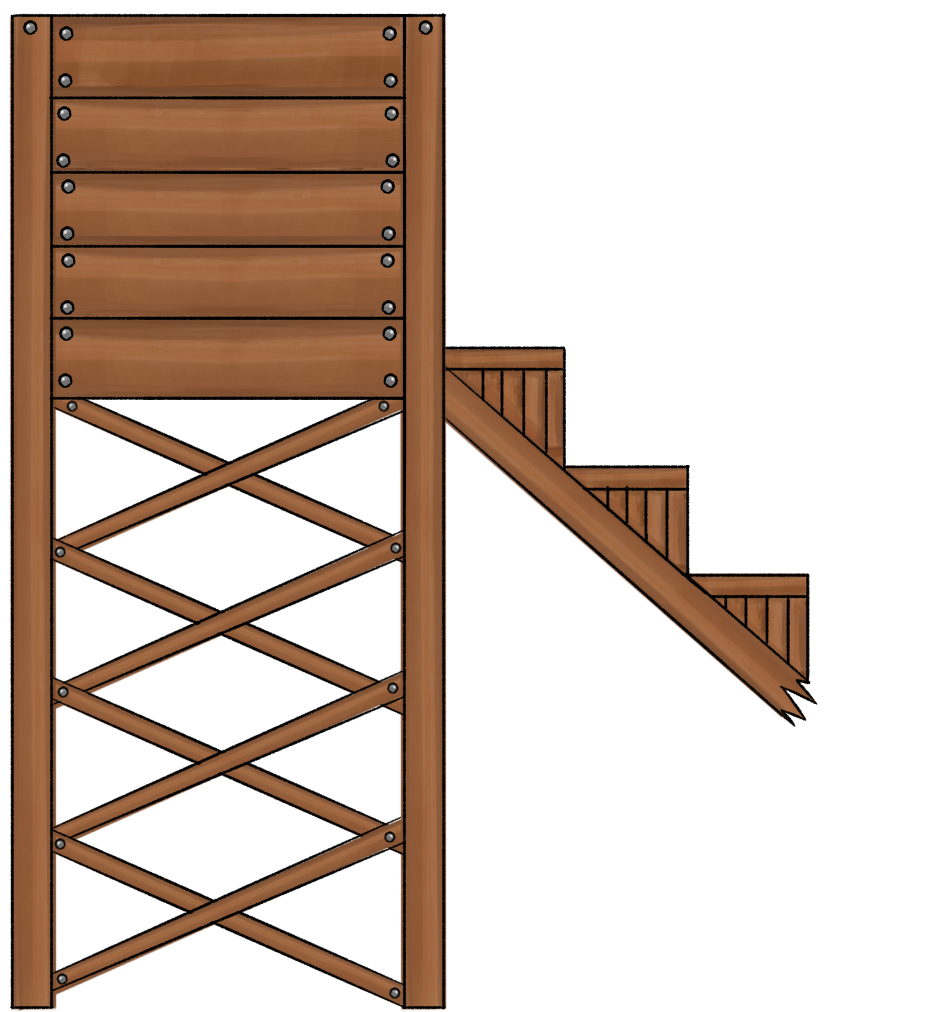
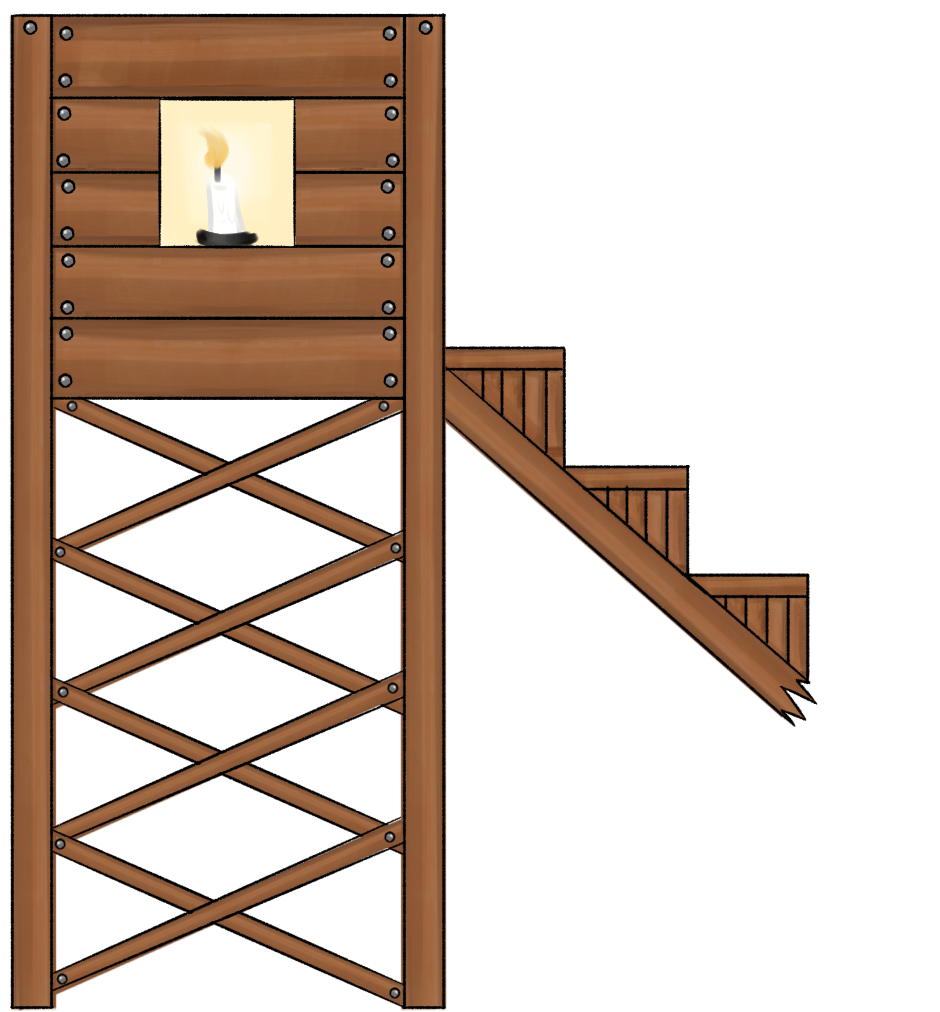
Extra: Update House

Changed region(s): [[0.1543, 0.0919, 0.3394, 0.2451]]

diff --git a/src/prefabs/Player.js b/src/prefabs/Player.js
@@ -43,29 +43,6 @@ class Player extends PhysicsObject {
 		// Round the position to avoid subpixel movement causing jitter
 		this.setPosition(Math.round(this.x), Math.round(this.y))		
 		
-		/*
-		let direction = new Phaser.Math.Vector2(0);
-		
-        if (this.scene.upKey.isDown && this.body.blocked.down) {
-            this.setVelocityY(this.jumpHeight);
-        }
-
-        this.setVelocityX(this.VEL * direction.x);
-
-		if (this.scene.leftKey.isDown) {
-			this.setVelocityX(-this.VEL)  // Make sure the leftward velocity is smooth
-		} else if (this.scene.rightKey.isDown) {
-			this.setVelocityX(this.VEL)  // Handle rightward velocity
-		}else{
-			this.setVelocityX(0)
-		}
-
-		// Round the position to avoid subpixel movement causing jitter
-		this.setPosition(Math.round(this.x), Math.round(this.y))
-		
-		direction.x = this.scene.rightKey.isDown - this.scene.leftKey.isDown
-		this.setFlipX(direction.x < 0)*/ 
-		
     }
 }
 																															
